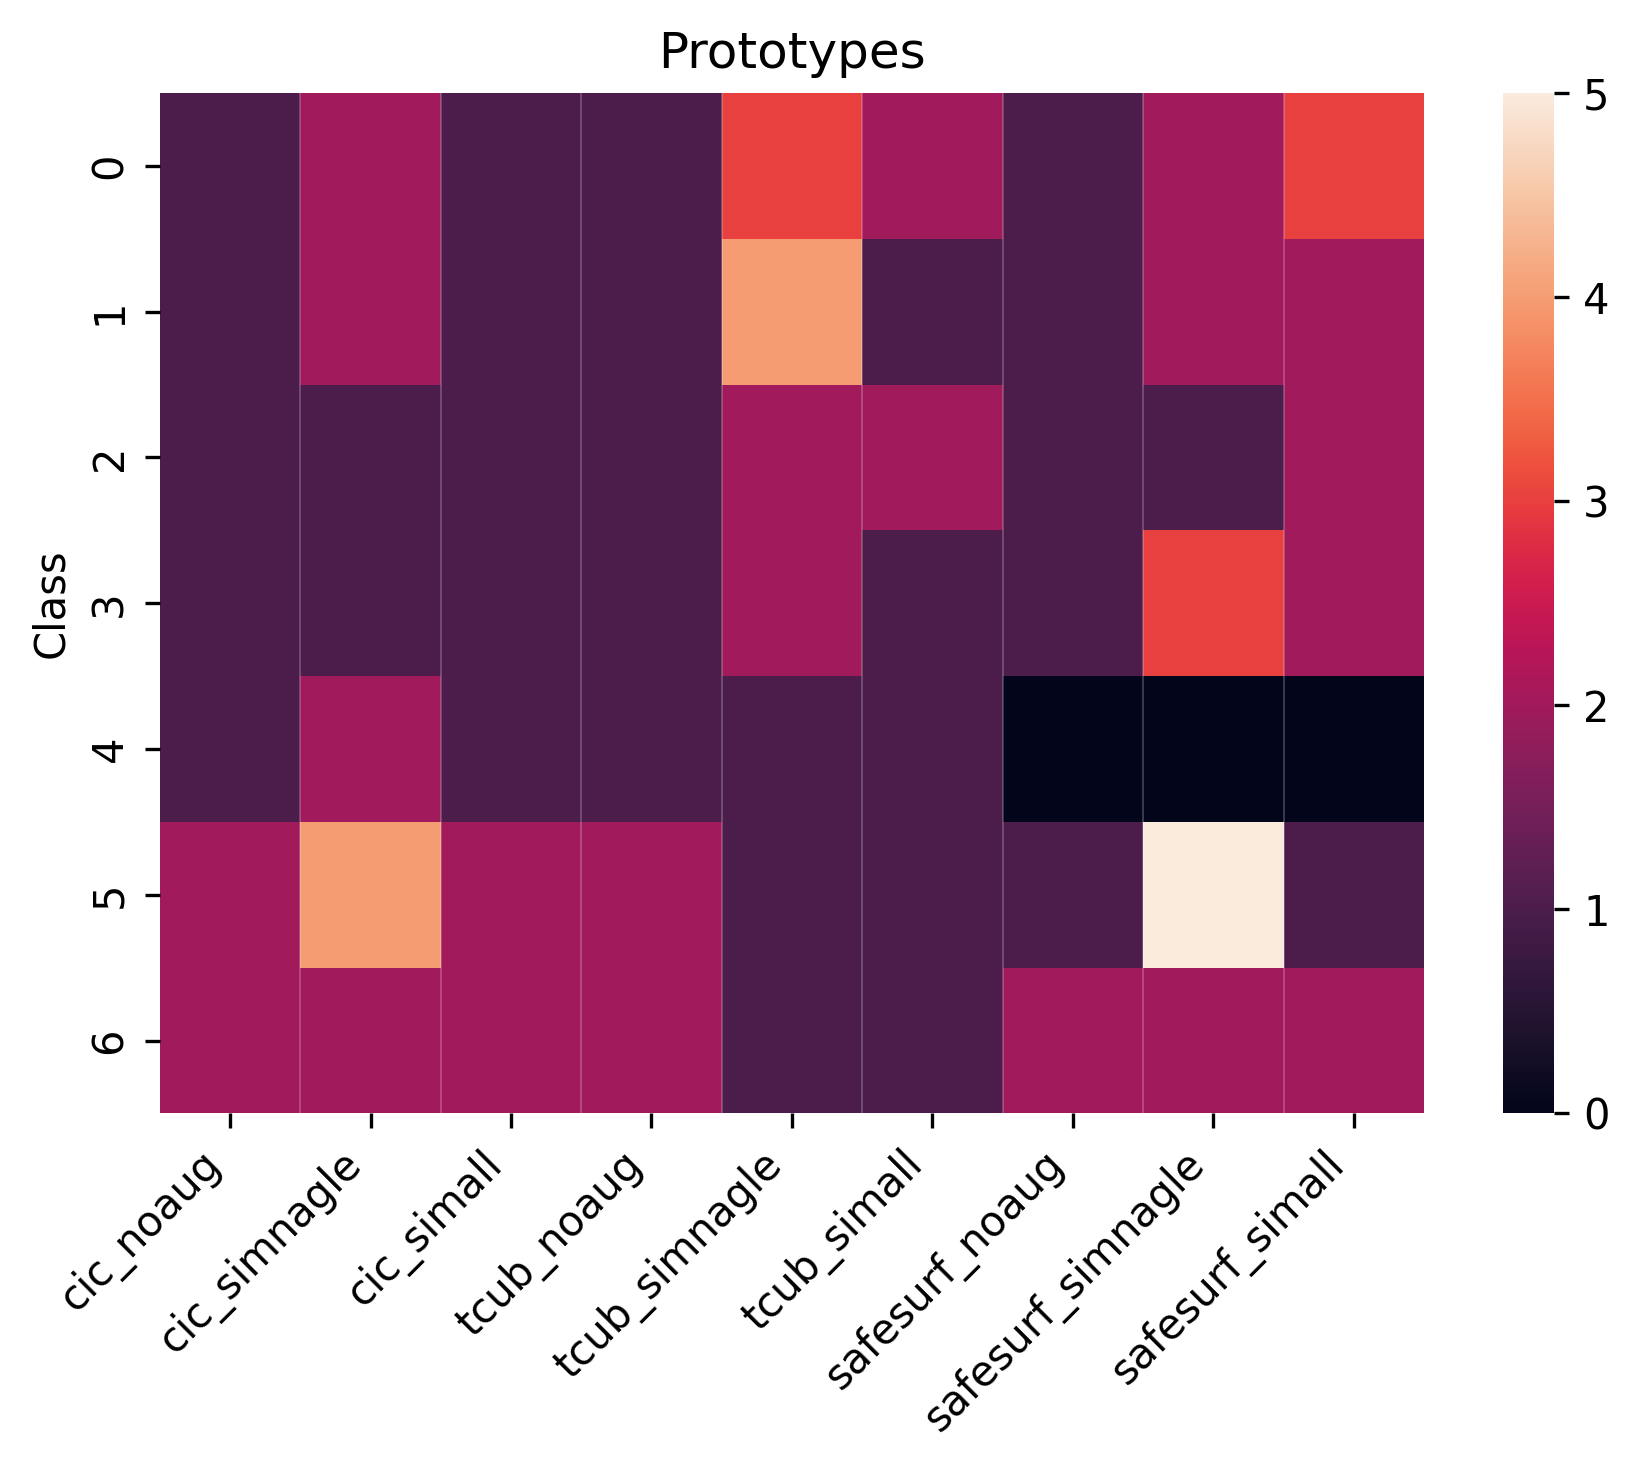
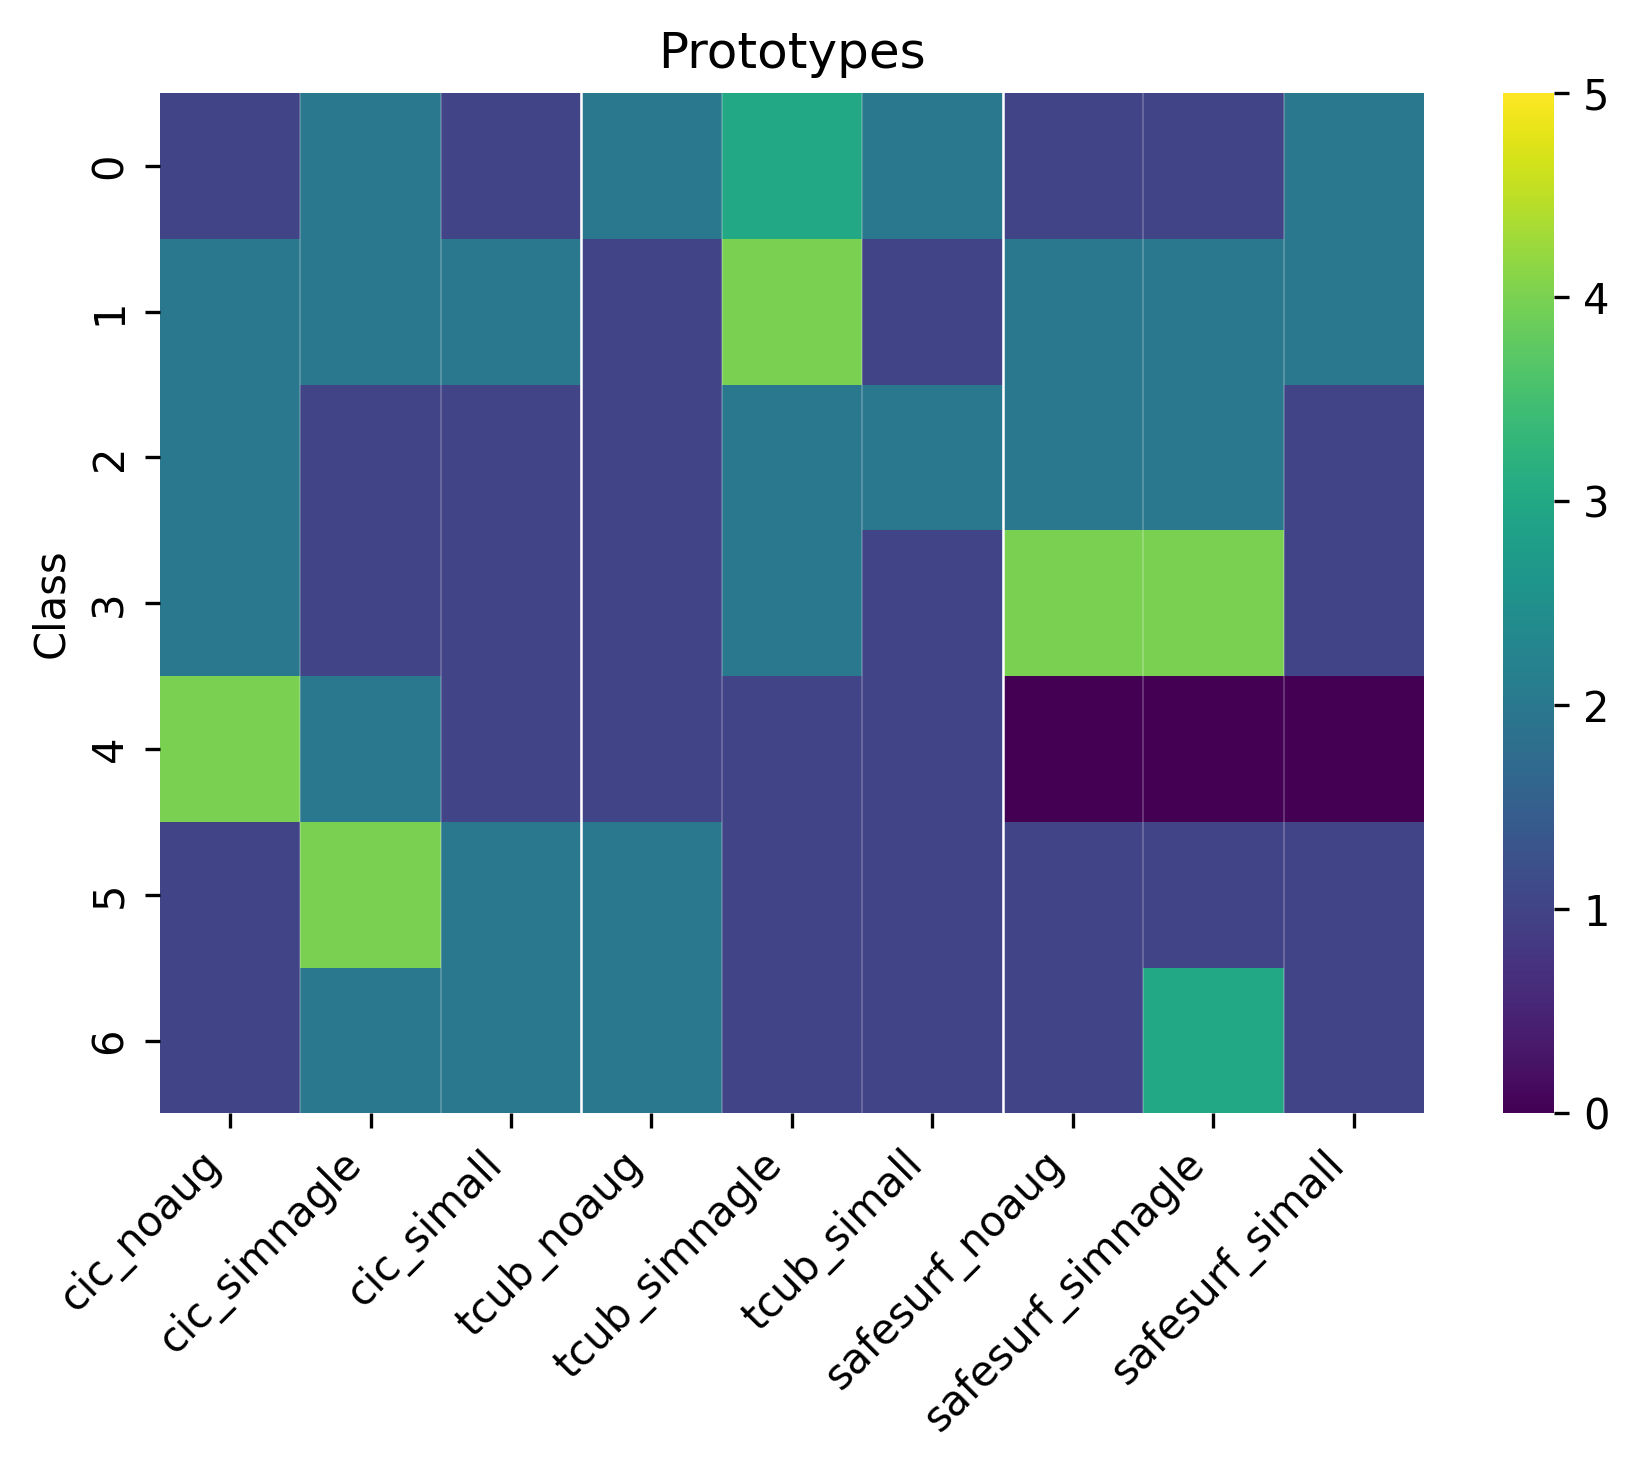
Add prototype heatmaps

diff --git a/hypertor/variable_proto/plot/plot_vp_distribution.py b/hypertor/variable_proto/plot/plot_vp_distribution.py
@@ -1,6 +1,8 @@
 # %%
 """
 ## Class info
+# ratio -> 1.0, 0.001, 1e-05
+
 ### cicdarknet & tcub
 ```txt
 class browsing(id 0)
@@ -24,48 +26,89 @@ class voip(id 6)
 ```
 """
 
+
+# %%
 import pandas as pd
 import seaborn as sns
 import matplotlib.pyplot as plt
 
-# ratio -> 1.0, 0.001, 1e-05
-data_r1_0 = {
-    "cic_noaug":   [1,1,1,1,1,2,2],
-    "cic_simnagle":[2,2,1,1,2,4,2], # v
-    "cic_simall":  [1,1,1,1,1,2,2], # v
+# %%
+def plot_vp_heatmap(vpdata: dict[str, list], ratio: float):
+    df = pd.DataFrame(vpdata)
+    df.index.name = "class"
 
-    "tcub_noaug":   [1,1,1,1,1,2,2],
-    "tcub_simnagle":[3,4,2,2,1,1,1], # v
-    "tcub_simall":  [2,1,2,1,1,1,1], # v
+    plt.figure(figsize=(6,5), dpi=300)
+    print(plt.colormaps())
+    ax = sns.heatmap(
+        df,
+        # annot=True,
+        cmap="viridis", # YlOrRd, viridis, magma, YlGnBu, RdBu_r, coolwarm
+        # linewidths=0.5,
+        vmin=0,
+        vmax=5,
+    )
+    n_cols = df.shape[1]
+    for x in range(1, n_cols):
+        ax.axvline(x, color="white", linewidth=0.1)
+
+    group_size = 3
+    for x in range(group_size, n_cols, group_size):
+        ax.axvline(x, color="white", linewidth=0.6)
+
+    plt.title("Prototypes")
+    # plt.xlabel("Datasets")
+    plt.ylabel("Class")
+    plt.xticks(rotation=45, ha="right")
+    plt.tight_layout()
+
+    plt.savefig(f"prototype_heatmap_ratio{ratio}.png", dpi=300, bbox_inches="tight")
+    plt.show()
+
+
+data_r1_0 = {
+    "cic_noaug":   [1,2,2,2,4,1,1],
+    "cic_simnagle":[2,2,1,1,2,4,2],
+    "cic_simall":  [1,2,1,1,1,2,2],
+
+    "tcub_noaug":   [2,1,1,1,1,2,2],
+    "tcub_simnagle":[3,4,2,2,1,1,1],
+    "tcub_simall":  [2,1,2,1,1,1,1],
     
     # class p2p(id 4) - MOCK as 0
-    "safesurf_noaug":   [1,1,1,1,0,1,2],
-    "safesurf_simnagle":[2,2,1,3,0,5,2], # v
-    "safesurf_simall":  [3,2,2,2,0,1,2], # v
+    "safesurf_noaug":   [1,2,2,4,0,1,1],
+    "safesurf_simnagle":[1,2,2,4,0,1,3],
+    "safesurf_simall":  [2,2,1,1,0,1,1],
 }
+data_r1_e__03 = {
+    "cic_noaug":   [2,2,1,1,1,1,2],
+    "cic_simnagle":[1,2,1,2,1,1,1],
+    "cic_simall":  [1,2,2,1,1,1,1],
 
-df_r1_0 = pd.DataFrame(data_r1_0)
-df_r1_0.index.name = "class"
+    "tcub_noaug":   [5,1,1,1,1,3,1],
+    "tcub_simnagle":[3,3,1,3,1,1,1],
+    "tcub_simall":  [2,2,2,2,2,1,2],
+    
+    # class p2p(id 4) - MOCK as 0
+    "safesurf_noaug":   [2,2,1,1,0,1,1],
+    "safesurf_simnagle":[2,2,1,1,0,1,2],
+    "safesurf_simall":  [2,2,4,2,0,1,1],
+}
+data_r1_e__05 = {
+    "cic_noaug":   [2,3,1,3,1,1,2],
+    "cic_simnagle":[1,2,2,1,1,1,1],
+    "cic_simall":  [1,2,2,2,1,3,1],
 
-plt.figure(figsize=(6,5), dpi=300)
-print(plt.colormaps())
-ax = sns.heatmap(
-    df_r1_0,
-    # annot=True,
-    # cmap="crest", # YlOrRd, viridis
-    # linewidths=0.5,
-)
-n_cols = df_r1_0.shape[1]
-for x in range(1, n_cols):
-    ax.axvline(x, color="white", linewidth=0.1)
-
-plt.title("Prototypes")
-# plt.xlabel("Datasets")
-plt.ylabel("Class")
-plt.xticks(rotation=45, ha="right")
-plt.tight_layout()
-
-plt.savefig("prototype_heatmap_ratio1.0.png", dpi=300, bbox_inches="tight")
-plt.show()
+    "tcub_noaug":   [2,3,2,1,1,1,3],
+    "tcub_simnagle":[2,1,2,1,1,1,3],
+    "tcub_simall":  [2,1,1,1,2,2,1],
+    
+    # class p2p(id 4) - MOCK as 0
+    "safesurf_noaug":   [2,2,1,4,0,3,2],
+    "safesurf_simnagle":[2,2,1,2,0,1,1],
+    "safesurf_simall":  [1,2,3,2,0,2,2],
+}
+plot_vp_heatmap(data_r1_0, 1.0)
+plot_vp_heatmap(data_r1_e__03, 1e-03)
+plot_vp_heatmap(data_r1_e__05, 1e-05)
 
 # %%

diff --git a/hypertor/variable_proto/plot/README.md b/hypertor/variable_proto/plot/README.md
@@ -27,12 +27,12 @@ class voip(id 5)
 ```txt
 >>> data/cicdarknet/logs/2-exps_tcp_augmentation/cicdarknet-usevp-simall-nomf-seq30-ratio1/prototypes/step-65000
 class 0: [0]
-class 1: [1]
+class 1: [1, 8]
 class 2: [2]
 class 3: [3]
 class 4: [4]
 class 5: [5, 7]
-class 6: [6, 8]
+class 6: [6]
 
 >>> data/cicdarknet/logs/2-exps_tcp_augmentation/cicdarknet-usevp-simall-nomf-seq30-ratio1e-3/prototypes/step-65000
 class 0: [0]
@@ -41,15 +41,16 @@ class 2: [2, 8]
 class 3: [3]
 class 4: [4]
 class 5: [5]
+class 6: [6]
 
->>> data/cicdarknet/logs/2-exps_tcp_augmentation/cicdarknet-usevp-simall-nomf-seq30-ratio1e-5/prototypes/step-71000
-class 0: [0, 11]
-class 1: [1]
-class 2: [2, 7, 9]
+>>> data/cicdarknet/logs/2-exps_tcp_augmentation/cicdarknet-usevp-simall-nomf-seq30-ratio1e-5/prototypes/step-201000
+class 0: [0]
+class 1: [1, 9]
+class 2: [2, 7]
 class 3: [3, 8]
 class 4: [4]
-class 5: [5]
-class 6: [6, 10, 12, 13]
+class 5: [5, 10, 11]
+class 6: [6]
 ```
 
 ```txt
@@ -82,11 +83,32 @@ class 6: [6]
 ```
 
 ```txt
->>>
+>>> data/cicdarknet/logs/3-exps_variable_prototypes/cicdarknet-usevp-noaug-nomf-seq30-ratio1/prototypes/step-236000 
+class 0: [0]
+class 1: [1, 10]
+class 2: [2, 11]
+class 3: [3, 7]
+class 4: [4, 8, 9, 12]
+class 5: [5]
+class 6: [6]
 
->>>
+>>> data/cicdarknet/logs/3-exps_variable_prototypes/cicdarknet-usevp-noaug-nomf-seq30-ratio1e-3/prototypes/step-236000
+class 0: [0, 7]
+class 1: [1, 9]
+class 2: [2]
+class 3: [3]
+class 4: [4]
+class 5: [5]
+class 6: [6, 8]
 
->>>
+>>> data/cicdarknet/logs/3-exps_variable_prototypes/cicdarknet-usevp-noaug-nomf-seq30-ratio1e-5/prototypes/step-235000
+class 0: [0, 9]
+class 1: [1, 10, 11]
+class 2: [2]
+class 3: [3, 7, 12]
+class 4: [4]
+class 5: [5]
+class 6: [6, 8]
 ```
 
 ### tcub
@@ -100,21 +122,22 @@ class 4: [4]
 class 5: [5]
 class 6: [6]
 
->>> data/tcub/logs/2-exps_tcp_augmentation/tcub-usevp-simall-nomf-seq30-ratio1e-3/prototypes/step-43000 
-class 0: [0]
-class 1: [1]
-class 2: [2, 7]
-class 3: [3]
-class 4: [4, 9]
-class 5: [5, 8]
-
->>> data/tcub/logs/2-exps_tcp_augmentation/tcub-usevp-simall-nomf-seq30-ratio1e-5/prototypes/step-73000
-class 0: [0, 7]
+>>> data/tcub/logs/2-exps_tcp_augmentation/tcub-usevp-simall-nomf-seq30-ratio1e-3/prototypes/step-80000
+class 0: [0, 12]
 class 1: [1, 9]
-class 2: [2]
-class 3: [3]
+class 2: [2, 11]
+class 3: [3, 7]
 class 4: [4, 8]
 class 5: [5]
+class 6: [6, 10]
+
+>>> data/tcub/logs/2-exps_tcp_augmentation/tcub-usevp-simall-nomf-seq30-ratio1e-5/prototypes/step-73000
+class 0: [0, 9]
+class 1: [1]
+class 2: [2]
+class 3: [3]
+class 4: [4, 7]
+class 5: [5, 8]
 class 6: [6]
 ```
 
@@ -128,33 +151,68 @@ class 4: [4]
 class 5: [5]
 class 6: [6]
 
->>>
+>>> data/tcub/logs/2-exps_tcp_augmentation/tcub-usevp-simnagle-nomf-seq30-ratio1e-3/prototypes/step-81000 
+class 0: [0, 9, 11]
+class 1: [1, 7, 12]
+class 2: [2]
+class 3: [3, 8, 10]
+class 4: [4]
+class 5: [5]
+class 6: [6]
 
->>>
+>>> data/tcub/logs/2-exps_tcp_augmentation/tcub-usevp-simnagle-nomf-seq30-ratio1e-5/prototypes/step-80000
+class 0: [0, 7]
+class 1: [1]
+class 2: [2, 8]
+class 3: [3]
+class 4: [4]
+class 5: [5]
+class 6: [6, 9, 10]
 ```
 
 ```txt
->>>
+>>> data/tcub/logs/3-exps_variable_prototypes/tcub-usevp-noaug-nomf-seq30-ratio1/prototypes/step-88000
+class 0: [0, 7]
+class 1: [1]
+class 2: [2]
+class 3: [3]
+class 4: [4]
+class 5: [5, 9]
+class 6: [6, 8]
 
->>>
+>>> data/tcub/logs/3-exps_variable_prototypes/tcub-usevp-noaug-nomf-seq30-ratio1e-3/prototypes/step-91000
+class 0: [0, 7, 9, 11, 12]
+class 1: [1]
+class 2: [2]
+class 3: [3]
+class 4: [4]
+class 5: [5, 8, 10]
+class 6: [6]
 
->>>
+>>> data/tcub/logs/3-exps_variable_prototypes/tcub-usevp-noaug-nomf-seq30-ratio1e-5/prototypes/step-90000
+class 0: [0, 7]
+class 1: [1, 8, 11]
+class 2: [2, 9]
+class 3: [3]
+class 4: [4]
+class 5: [5]
+class 6: [6, 10, 12]
 ```
 
 
 ### safesurf2025
 ```txt
 >>> data/safesurf2025/logs/2-exps_tcp_augmentation/safesurf2025-usevp-simall-nomf-seq30-ratio1/prototypes/step-73000
-class 0: [0, 6, 8]
-class 1: [1, 11]
-class 2: [2, 10]
-class 3: [3, 9]
+class 0: [0, 6]
+class 1: [1, 7]
+class 2: [2]
+class 3: [3]
 class 4: [4]
-class 5: [5, 7]
+class 5: [5]
 
 >>> data/safesurf2025/logs/2-exps_tcp_augmentation/safesurf2025-usevp-simall-nomf-seq30-ratio1e-3/prototypes/step-72000 
 class 0: [0, 8]
-class 1: [1]
+class 1: [1, 11]
 class 2: [2, 6, 9, 10]
 class 3: [3, 7]
 class 4: [4]
@@ -171,12 +229,12 @@ class 5: [5, 7]
 
 ```txt
 >>> data/safesurf2025/logs/2-exps_tcp_augmentation/safesurf2025-usevp-simnagle-nomf-seq30-ratio1/prototypes/step-78000
-class 0: [0, 14]
-class 1: [1, 6]
-class 2: [2]
-class 3: [3, 8, 10]
-class 4: [4, 7, 9, 11, 12]
-class 5: [5, 13]
+class 0: [0]
+class 1: [1, 10]
+class 2: [2, 8]
+class 3: [3, 6, 11, 12]
+class 4: [4]
+class 5: [5, 7, 9]
 
 >>> data/safesurf2025/logs/2-exps_tcp_augmentation/safesurf2025-usevp-simnagle-nomf-seq30-ratio1e-3/prototypes/step-69000
 class 0: [0, 6]
@@ -188,7 +246,7 @@ class 5: [5, 7]
 
 >>> data/safesurf2025/logs/2-exps_tcp_augmentation/safesurf2025-usevp-simnagle-nomf-seq30-ratio1e-5/prototypes/step-68000
 class 0: [0, 6]
-class 1: [1]
+class 1: [1, 8]
 class 2: [2]
 class 3: [3, 7]
 class 4: [4]
@@ -196,9 +254,27 @@ class 5: [5]
 ```
 
 ```txt
->>>
+>>> data/safesurf2025/logs/3-exps_variable_prototypes/safesurf2025-usevp-noaug-nomf-seq30-ratio1/prototypes/step-90000
+class 0: [0]
+class 1: [1,10]
+class 2: [2, 6]
+class 3: [3, 7, 8, 9]
+class 4: [4]
+class 5: [5]
 
->>>
+>>> data/safesurf2025/logs/3-exps_variable_prototypes/safesurf2025-usevp-noaug-nomf-seq30-ratio1e-3/prototypes/step-86000
+class 0: [0, 6]
+class 1: [1, 7]
+class 2: [2]
+class 3: [3]
+class 4: [4]
+class 5: [5]
 
->>>
+>>> data/safesurf2025/logs/3-exps_variable_prototypes/safesurf2025-usevp-noaug-nomf-seq30-ratio1e-5/prototypes/step-95000
+class 0: [0, 8]
+class 1: [1, 12]
+class 2: [2]
+class 3: [3, 6, 9, 10]
+class 4: [4, 7, 13]
+class 5: [5, 11]
 ```
